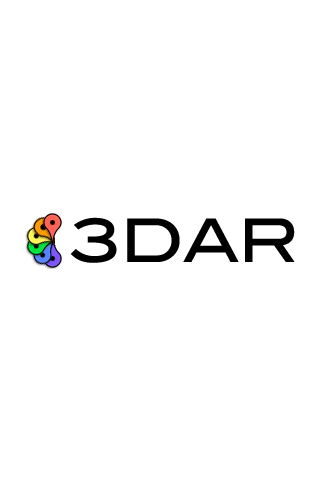
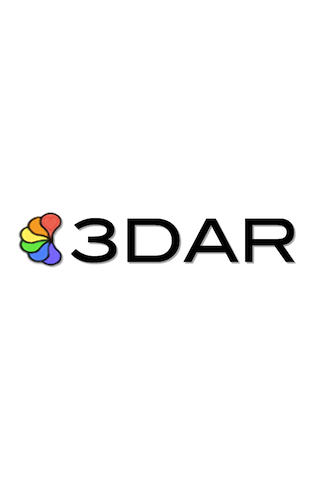
New assets. Marker callout tap handler works.

diff --git a/3DAR/SM3DARMapView.m b/3DAR/SM3DARMapView.m
@@ -278,10 +278,15 @@
 
 #pragma mark Annotations
 
-- (id<SM3DAR_PointProtocol>) poiFromAnnotation:(id)object
+- (NSUInteger) nextPointIndentifier
 {
-    id<SM3DAR_PointProtocol> point = nil;
-    
+    return ++currentPointIdentifier;    
+}
+
+- (SM3DAR_Point*) poiFromAnnotation:(id)object
+{
+    SM3DAR_Point *point = nil;
+
     if ([object conformsToProtocol:@protocol(SM3DAR_PointProtocol)])
     {
         // The object is a 3DAR point.
@@ -327,28 +332,34 @@
         }
     }
     
+    point.identifier = [self nextPointIndentifier];
+    
     return point;
+}
+
+- (void) mapAnnotation:(id)object toPoint:(SM3DAR_Point*)point
+{
+    [pointAnnotations setObject:object
+                         forKey:[NSString stringWithFormat:@"%u", point.identifier]];
 }
 
 - (void) addAnnotation:(id)object
 {
     NSObject<MKAnnotation> *annotation = nil;
-    
+
+    SM3DAR_Point *point = [self poiFromAnnotation:object];
+
     if ([object conformsToProtocol:@protocol(MKAnnotation)])
     {
         // The object is an annotation so add it to the map.
         
         annotation = (NSObject<MKAnnotation>*)object;
         [super addAnnotation:annotation];
+        
+        [self mapAnnotation:annotation toPoint:point];
     }
     
-    id p = [self poiFromAnnotation:object];
-    [sm3dar addPoint:p];
-    
-    if (annotation)
-    {
-        [pointAnnotations setObject:p forKey:annotation];
-    }
+    [sm3dar addPoint:point];    
 }
 
 - (void) addPoints:(NSArray *)points
@@ -357,11 +368,9 @@
     
     for (id object in points)
     {
-        id p = [self poiFromAnnotation:object];
-        [tmpPoints addObject:p];
-        NSLog(@"Mapping point %@ to annotation %@", p, object);
-
-        [pointAnnotations setObject:p forKey:object];
+        SM3DAR_Point *point = [self poiFromAnnotation:object];
+        [self mapAnnotation:object toPoint:point];
+        [tmpPoints addObject:point];
     }
     
     [sm3dar addPointsOfInterest:tmpPoints addToMap:NO];
@@ -564,20 +573,16 @@
     }
 }
 
-- (void) calloutViewWasTappedForPoint:(SM3DAR_Point *)point
+- (id) annotationForPoint:(SM3DAR_Point *)point
 {
-    NSLog(@"Digging up point: %@", point);
-    
-    
-    NSObject<MKAnnotation> *annotation = [pointAnnotations objectForKey:point];
+    NSLog(@"Digging up annotation for point: %u", point.identifier);
+    return [pointAnnotations objectForKey:[NSString stringWithFormat:@"%u", point.identifier]];
+}
 
-    MKAnnotationView *annView = (MKAnnotationView*)point.view;
-    
-    if (annotation)
-    {
-        annView.annotation = annotation;
-    }
-    
+- (void) calloutViewWasTappedForPoint:(SM3DAR_Point *)point
+{    
+    id<MKAnnotation> annotation = [self annotationForPoint:point];
+    MKAnnotationView *annView = [self mapView:self viewForAnnotation:annotation];    
     [self mapView:self annotationView:annView calloutAccessoryControlTapped:nil];
 }
 

diff --git a/3DAR/SM3DAR.h b/3DAR/SM3DAR.h
@@ -32,8 +32,10 @@ typedef struct
 @property (nonatomic, assign) Coord3D worldPoint;
 @property (nonatomic, retain) UIView *view;
 @property (nonatomic, retain) NSObject<SM3DAR_Delegate> *selectionDelegate;
-@property (assign) BOOL canReceiveFocus;
-@property (assign) BOOL hasFocus;
+@property (nonatomic, assign) BOOL canReceiveFocus;
+@property (nonatomic, assign) BOOL hasFocus;
+@property (nonatomic, assign) NSUInteger identifier;
+
 - (Coord3D) worldCoordinate;
 - (void) translateX:(CGFloat)x Y:(CGFloat)y Z:(CGFloat)z;
 - (Coord3D) unitVectorFromOrigin;
@@ -201,6 +203,9 @@ typedef NSObject<SM3DAR_PointProtocol> SM3DAR_Point;
 @interface SM3DAR_Fixture : NSObject <SM3DAR_PointProtocol> {
 }
 @property (nonatomic, assign) CGFloat gearPosition;
+@property (nonatomic, assign) BOOL canReceiveFocus;
+@property (nonatomic, assign) BOOL hasFocus;
+@property (nonatomic, assign) NSUInteger identifier;
 - (CGFloat)gearSpeed;
 - (NSInteger)numberOfTeethInGear;
 - (void) gearHasTurned;
@@ -222,8 +227,9 @@ typedef NSObject<SM3DAR_PointProtocol> SM3DAR_Point;
 @property (nonatomic, retain) UIView *view;
 @property (nonatomic, assign) Class annotationViewClass;
 @property (nonatomic, retain) NSString *mapAnnotationImageName;
-@property (assign) BOOL hasFocus;
-@property (assign) BOOL canReceiveFocus;
+@property (nonatomic, assign) BOOL canReceiveFocus;
+@property (nonatomic, assign) BOOL hasFocus;
+@property (nonatomic, assign) NSUInteger identifier;
 @property (nonatomic, assign) CGFloat gearPosition;
 
 - (id)initWithLocation:(CLLocation*)loc properties:(NSDictionary*)props;

diff --git a/3DAR/SM3DARMapView.h b/3DAR/SM3DARMapView.h
@@ -21,6 +21,7 @@
     UIView *containerView;    
     MarkerCalloutView<SM3DAR_FocusDelegate> *calloutView;
     NSMutableDictionary *pointAnnotations;
+    NSUInteger currentPointIdentifier;
 }
 
 @property (nonatomic, retain) UIView *containerView;

diff --git a/Classes/MapViewController.m b/Classes/MapViewController.m
@@ -56,8 +56,6 @@
 	if ([mapView.annotations count] == 0)
 		return;
 
-    NSLog(@"zoomMapToFit %i markers", [mapView.annotations count]);
-	
 	CLLocationCoordinate2D topLeftCoord;
 	topLeftCoord.latitude = -90;
 	topLeftCoord.longitude = 180;
